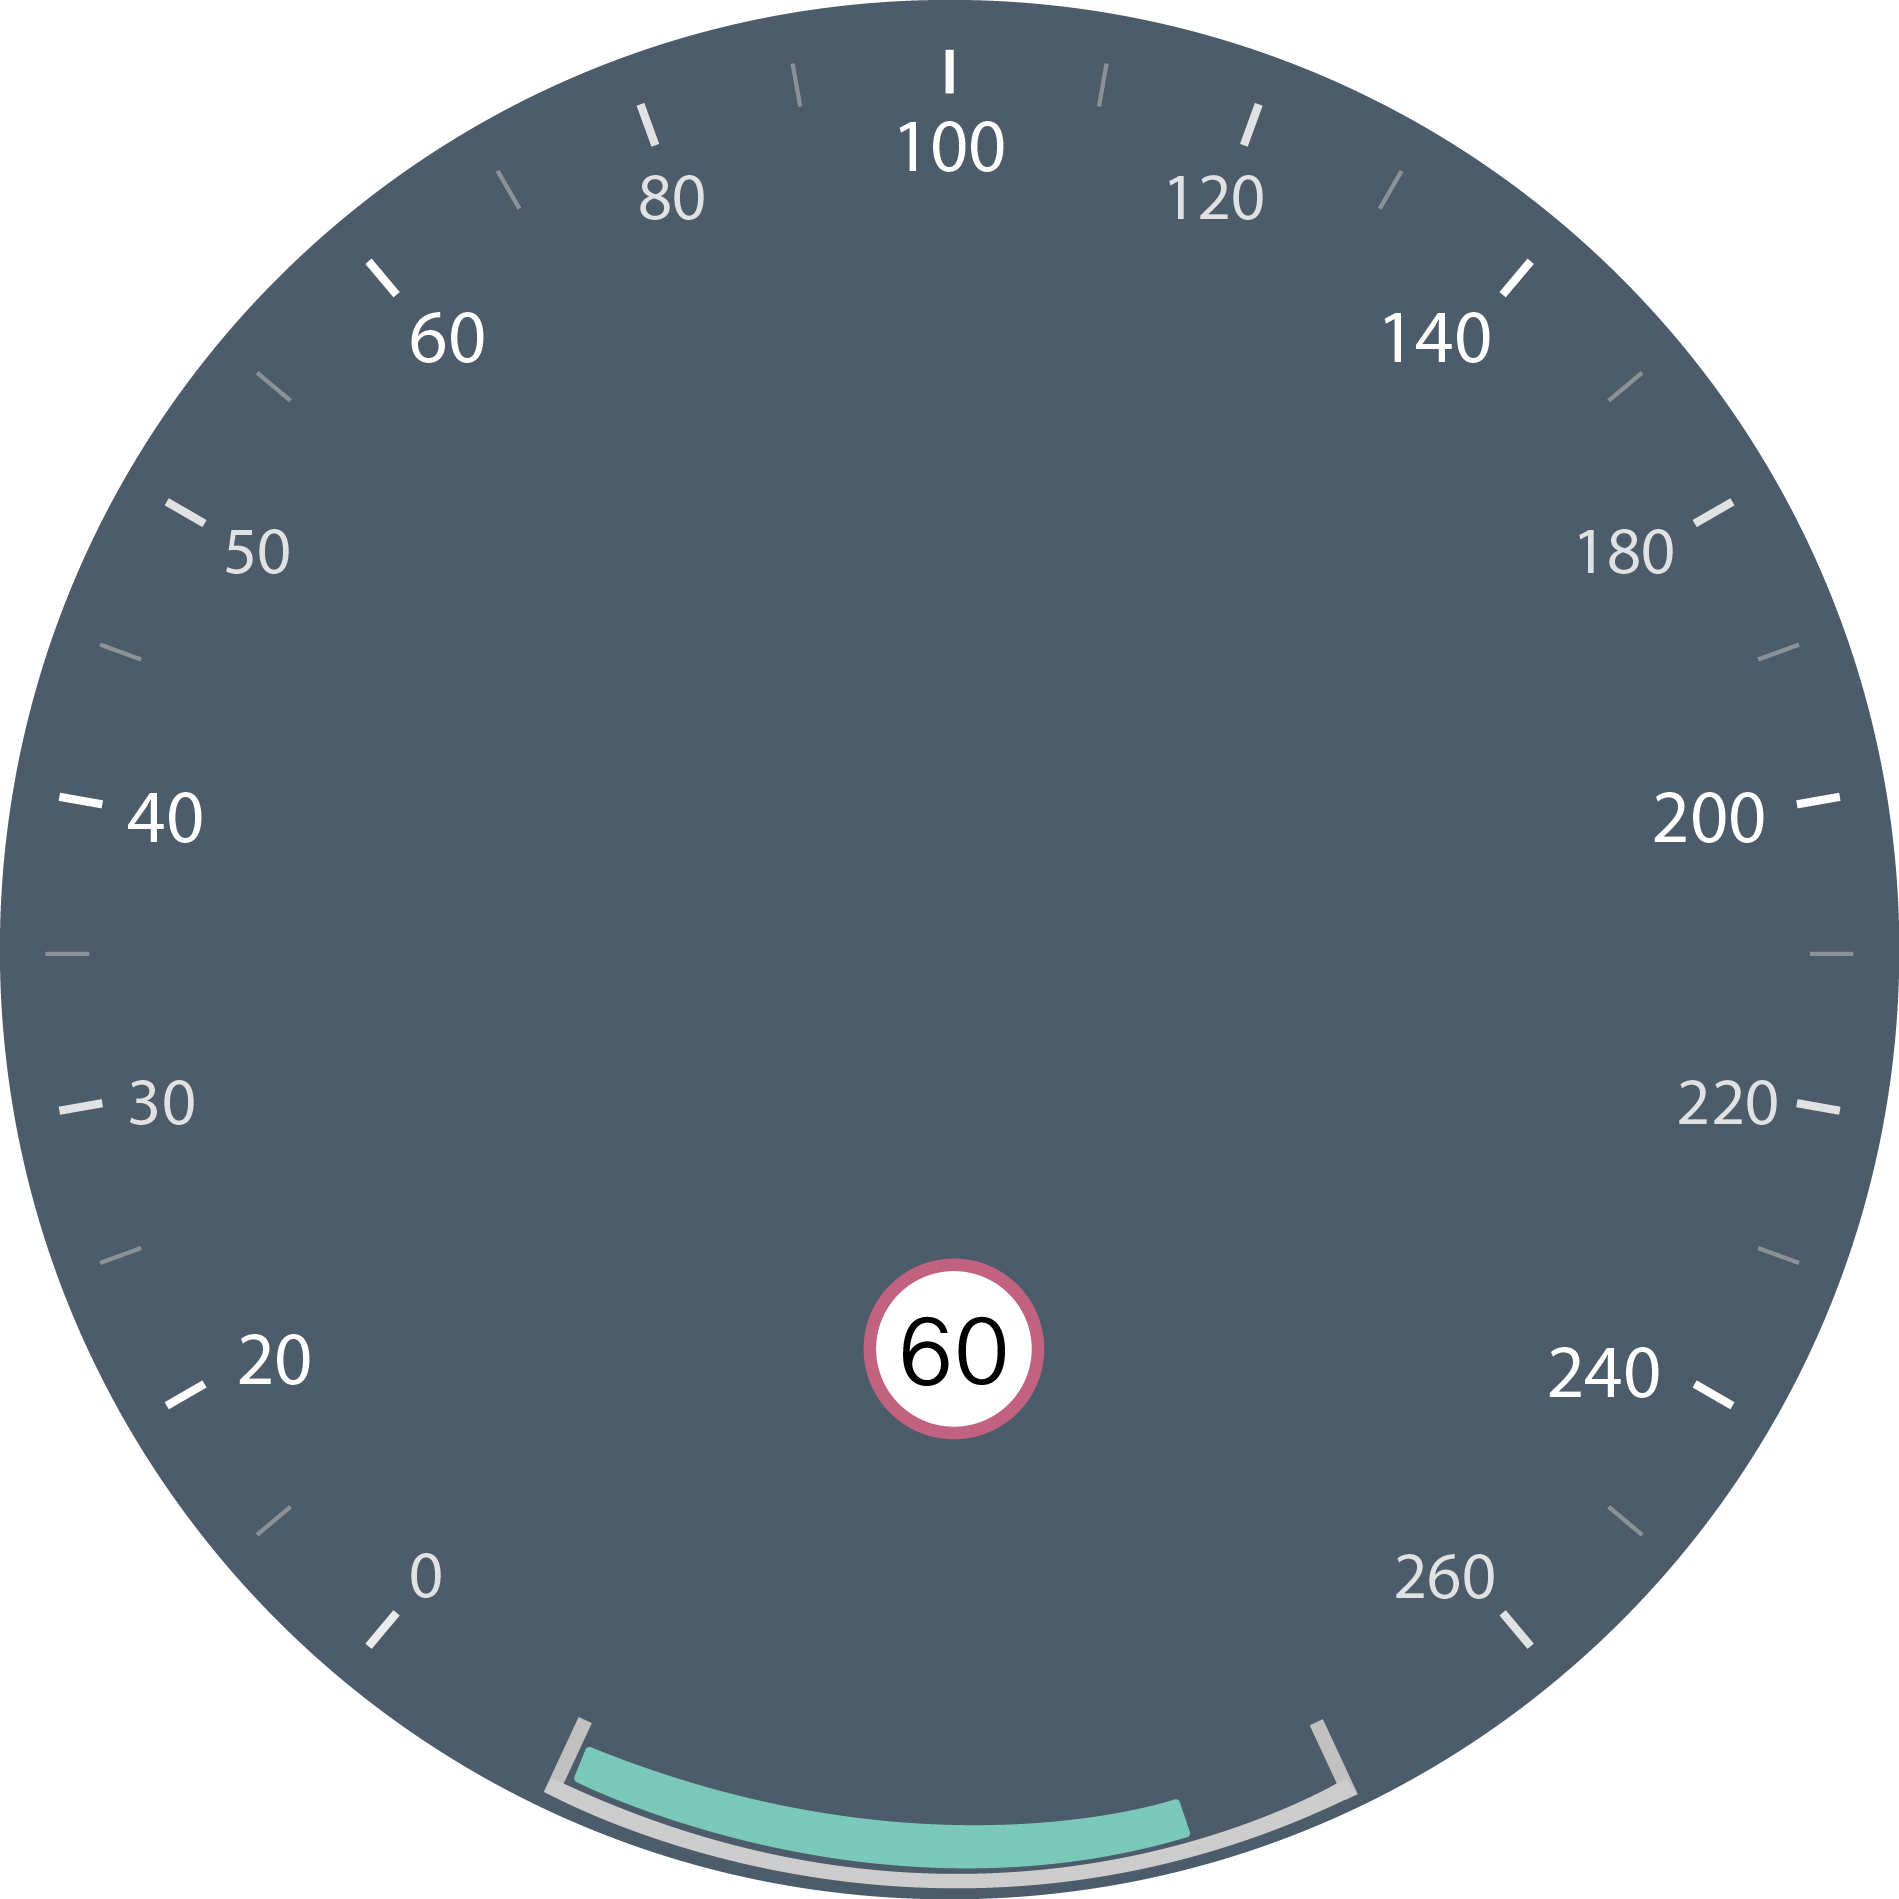
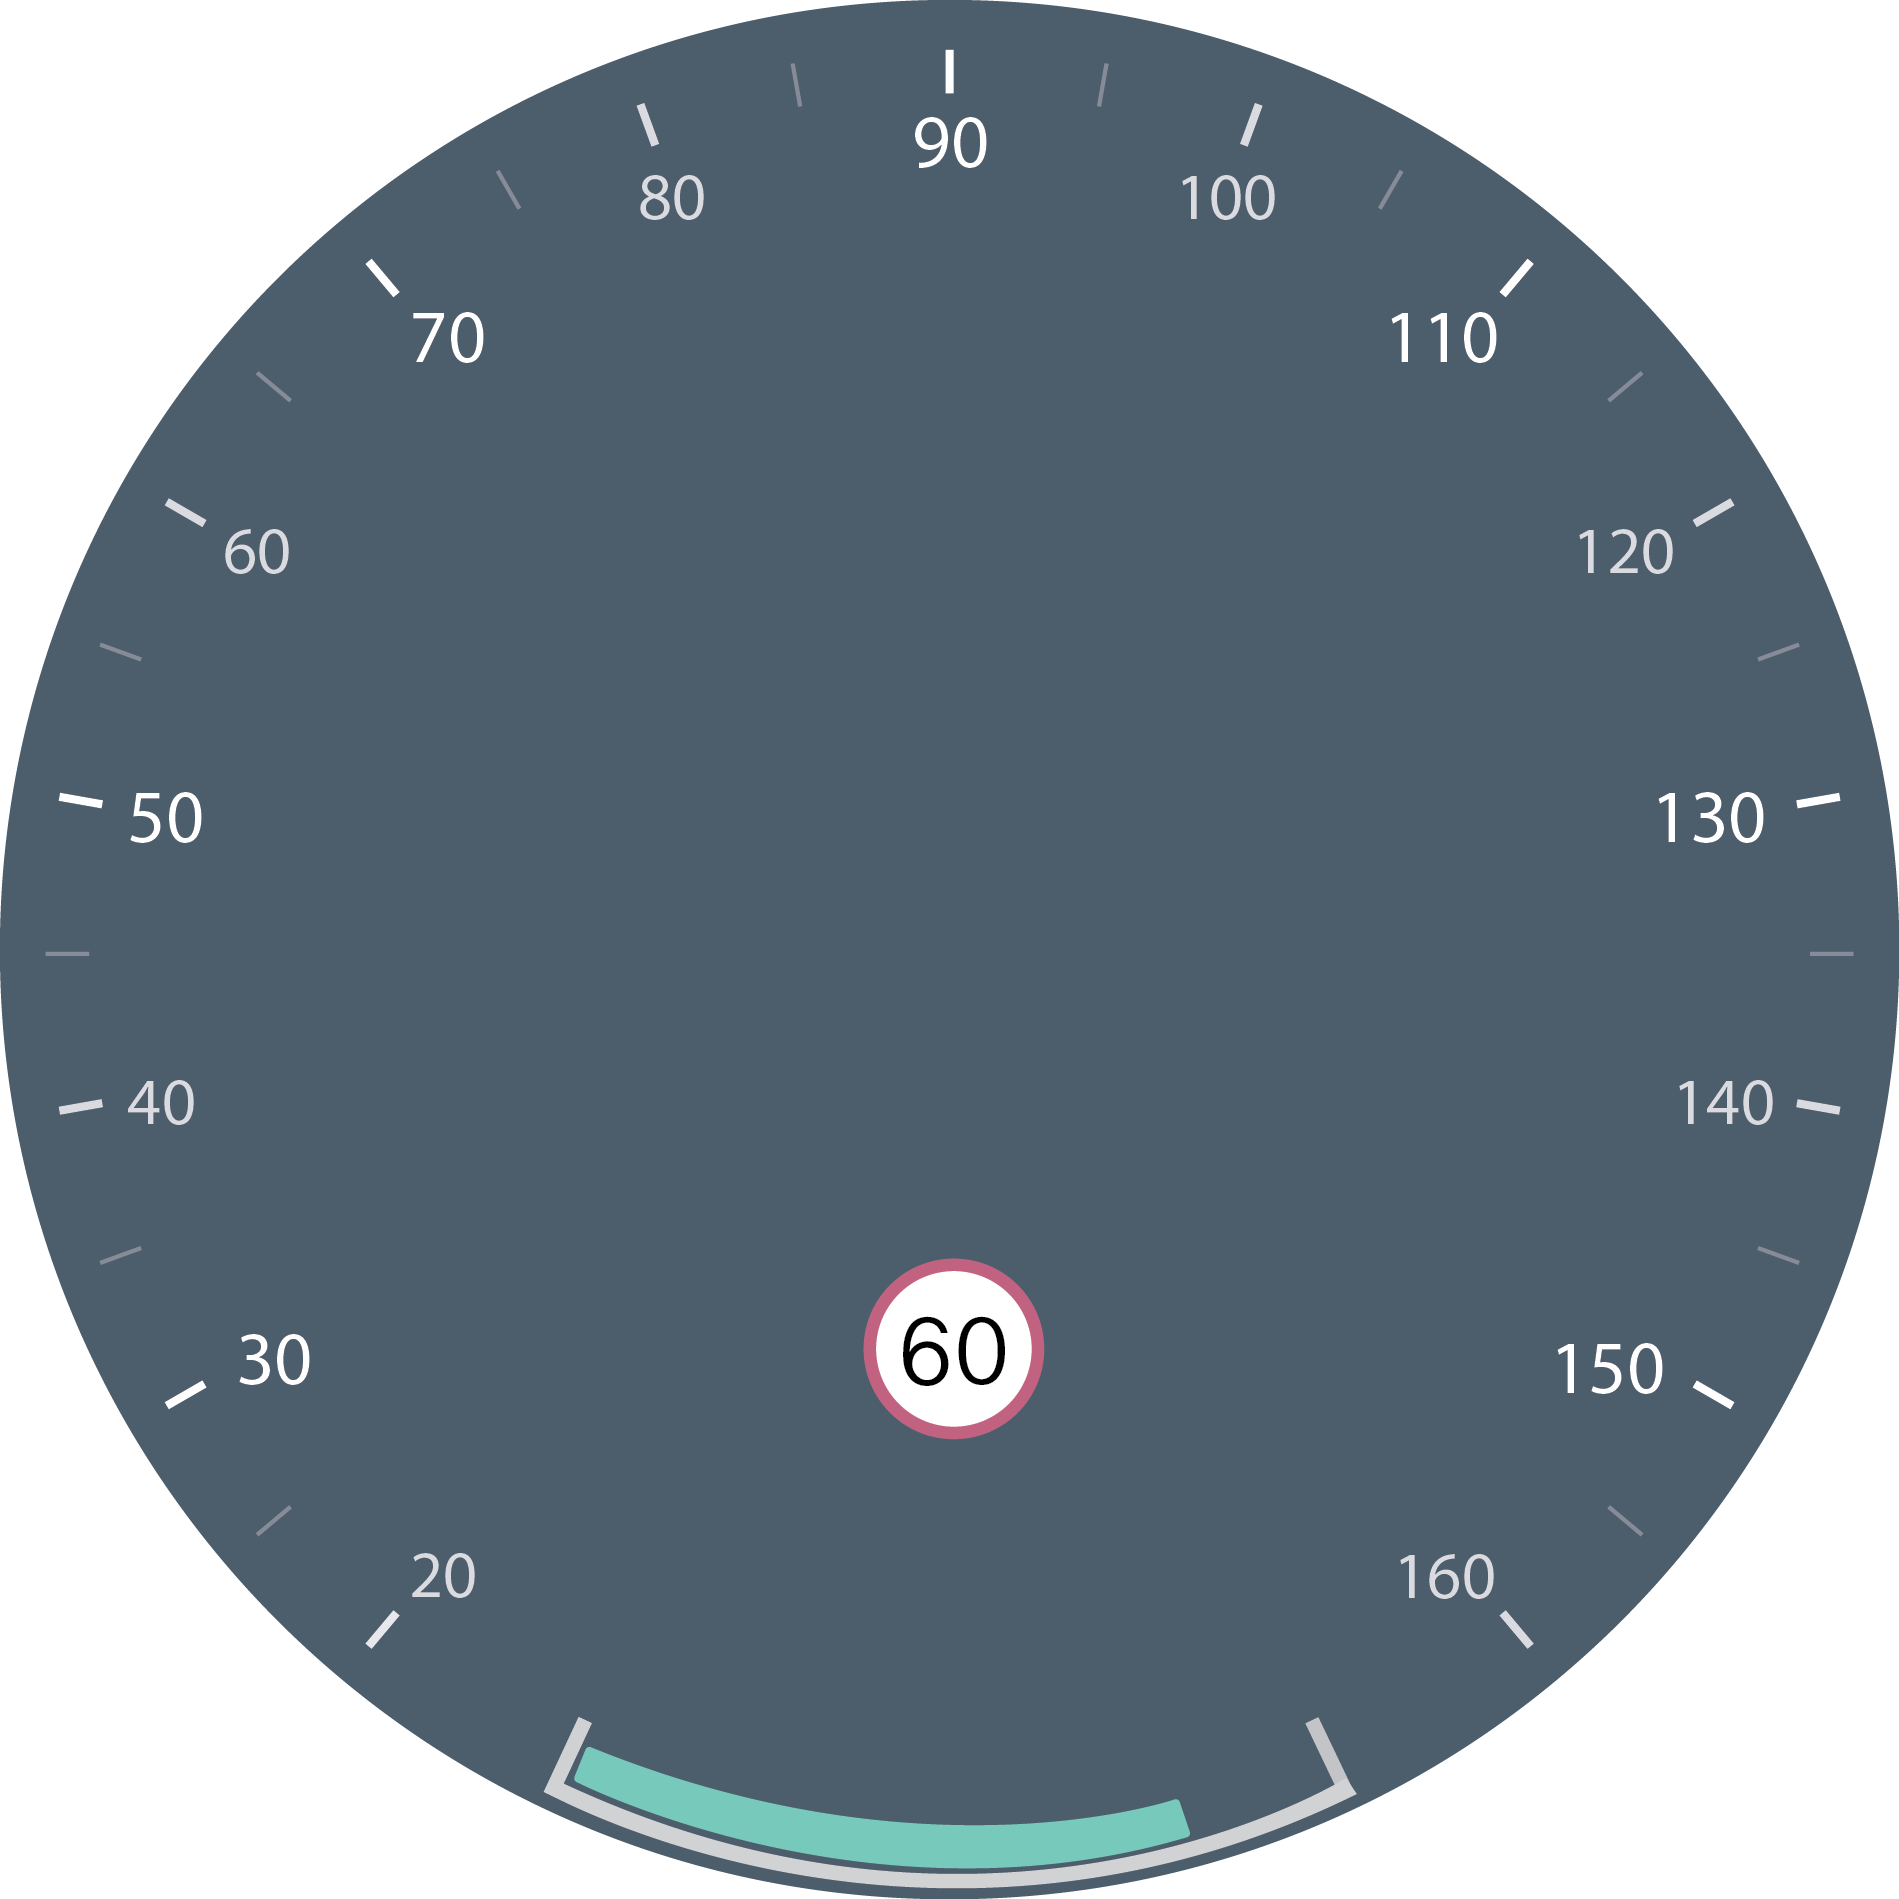
Update processing sketch in android studio

diff --git a/Android_Processing/app/src/main/java/com/duohui/example/android_processing/Sketch.java b/Android_Processing/app/src/main/java/com/duohui/example/android_processing/Sketch.java
@@ -7,88 +7,189 @@ import processing.core.PImage;
 
 public class Sketch extends PApplet {
 
-    PImage img1,img2,img3;
-    int speed=0;
-    float degree=0;
+    PImage img1, img2, img3;
+
+    int startSpeed = 0;
+    int endSpeed = 0;
+
+    int startDegree = 0;
+    int endDegree = 0;
+
+
+    int text;
+    int degree;
+    int arc;
+
+    boolean start = true;
+
+    int delaySecond =0;
 
 
 
 
-    public void settings()
-    {
-
+    public void settings() {
         fullScreen();
     }
 
-    public void setup(){
+    public void setup() {
 
-        background(255,255,255);
+
+        background(255, 255, 255);
         noStroke();
+
         img1 = loadImage("back.png");
+        img2 = loadImage("image.png");
+        img3 = loadImage("gra_img.png");
+
+
         imageMode(CENTER);
-        image(img1,width/2,height/2,920,920);
+        image(img1, width / 2, height / 2, 920, 920);
+
+        frameRate(240);
 
     }
 
-    public void setSpeed(int speed){
 
-        this.speed = speed;
+    public void setSpeed(int speed) {
+
+        delaySecond = 0;
+        frameCount = 0;
+
+        if (start) {
+
+            startSpeed = 0;
+            endSpeed = speed;
+
+            startDegree =0;
+            endDegree = speed*2;
+
+            start = false;
+
+        } else {
+
+            startSpeed = endSpeed;
+            endSpeed = speed;
+
+            startDegree = endDegree;
+            endDegree = speed*2;
+
+        }
+
+        text = startSpeed;
+        degree = startDegree;
+        arc = startDegree;
+
 
     }
 
-    public void setDegree(float degree){
 
-        this.degree = degree;
-    }
+    int i=1;
+    public void draw() {
+
+        imageMode(CENTER);
+
+        image(img1, width / 2, height / 2, 920, 920);
+
+
+        fill(120, 199, 184);
+        //각도 증가 제어
+        if (startDegree <= endDegree) {
+            arc = degree + 2;
+            arc(width / 2, height / 2, 910, 910, radians(130),radians((arc*2+90)/2+40));
 
 
 
-    public void draw(){
+        }
 
+        //각도 감소 제어
+        else if (startDegree > endDegree) {
+            arc = degree - 2;
+            arc(width / 2, height / 2, 910, 910, radians(130),radians((arc*2+90)/2+40));
 
-       fill(120,199,184);
-        arc(width/2, height/2, 910, 910, radians(130),radians(degree+88));
+        }
 
 
         //main image
-        img2 = loadImage("image.png");
-        imageMode(CENTER);
-        image(img2,width/2,height/2,880,880);
+        image(img2, width / 2, height / 2, 880, 880);
+
 
 
         //draw rect
         pushMatrix();
-        translate(width/2,height/2);
+        translate(width / 2, height / 2);
+
+
         rotate(radians(degree));
-        fill(183,194,199);
-        rect(-10,0,20,440);
+
+
+
+        fill(183, 194, 199, 200);
+        rect(-10, 0, 20, 440);
         popMatrix();
 
 
         //gradient image
-        img3 = loadImage("gra_img.png");
-        imageMode(CENTER);
-        image(img3,width/2,height/2,300,300);
+        image(img3, width / 2, height / 2, 300, 300);
 
 
         //text
         pushMatrix();
-        translate(width/2,height/2);
+        translate(width / 2, height / 2);
         textAlign(CENTER);
 
-        fill(255,255,255);
+        fill(255, 255, 255);
         textSize(135);
-        text(speed,0,0);
 
-        fill(255,255,255,100);
+
+        text(text, 0, 0);
+
+
+        fill(255, 255, 255, 100);
         textSize(35);
-        text("km/h",0,80);
+        text("km/h", 0, 80);
 
         popMatrix();
+
+
+        //텍스트 증가제어
+        if (startSpeed <= endSpeed && text <= endSpeed - 1) {
+            text = text+1 ;
+        }
+
+        //텍스트 감소제어
+        else if (startSpeed > endSpeed && text >= endSpeed + 1) {
+            text=text-1;
+        }
+
+
+
+        //각도 증가 제어
+        if (startDegree <= endDegree && degree <= endDegree - 1) {
+             degree = degree + 2;
+            //controllPlusDegree(abs(endSpeed-startSpeed));
+
+
+        }
+
+        //각도 감소 제어
+        else if (startDegree > endDegree && degree >= endDegree + 1 ) {
+             degree = degree - 2;
+            //controllMinusDegree(abs(endSpeed-startSpeed));
+        }
+
+
+
+
+        if(frameCount > abs(abs(endSpeed-startSpeed)-30)){
+                  delaySecond = delaySecond + 1;
+                  delay(delaySecond);
+        }
 
 
 
 
     }
+
+
 
 }

diff --git a/Android_Processing/app/src/main/java/com/duohui/example/android_processing/MainActivity.java b/Android_Processing/app/src/main/java/com/duohui/example/android_processing/MainActivity.java
@@ -19,8 +19,7 @@ public class MainActivity extends AppCompatActivity {
 
     private Sketch sketch;
     TimerTask timerTask,timerTask2;
-    int cnt =40;
-    float degree = 100;
+    int cnt = 30;
 
     @Override
     protected void onCreate(Bundle savedInstanceState) {
@@ -33,17 +32,30 @@ public class MainActivity extends AppCompatActivity {
         PFragment fragment = new PFragment(sketch);
         fragment.setView(frameLayout, this);
 
-        timerTask = new TimerTask() {
-            @Override
-            public void run() {
-                sketch.setSpeed(cnt);
-                cnt++;
 
+
+
+
+
+        final int speed[] = new int[]{50,70,120,150,130,160,190,160,80,100,110,140,130,150,100,130,150};
+
+
+       timerTask = new TimerTask() {
+
+           int i =0;
+
+           @Override
+            public void run() {
+                sketch.setSpeed(speed[i]);
+
+                 i++;
+                 if(i == speed.length) timerTask.cancel();
             }
         };
 
         Timer timer = new Timer();
-        timer.schedule(timerTask,0,3000);
+        timer.schedule(timerTask,0,1000);
+
 
 
 
